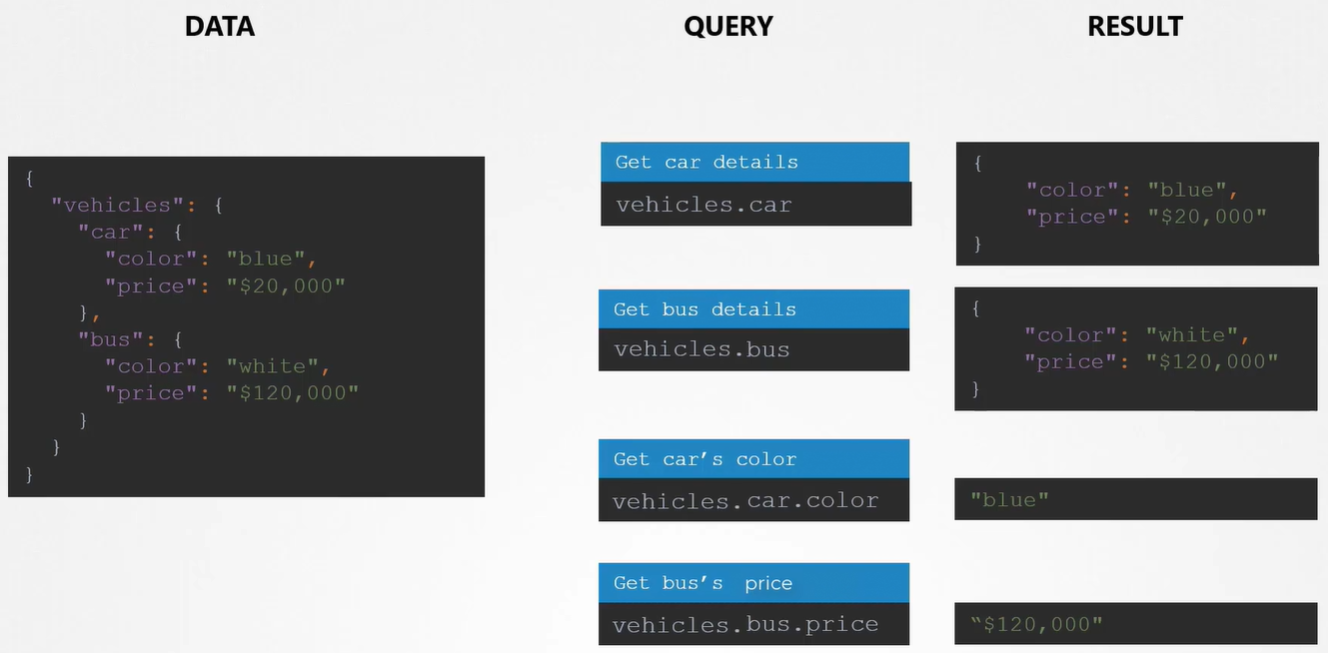
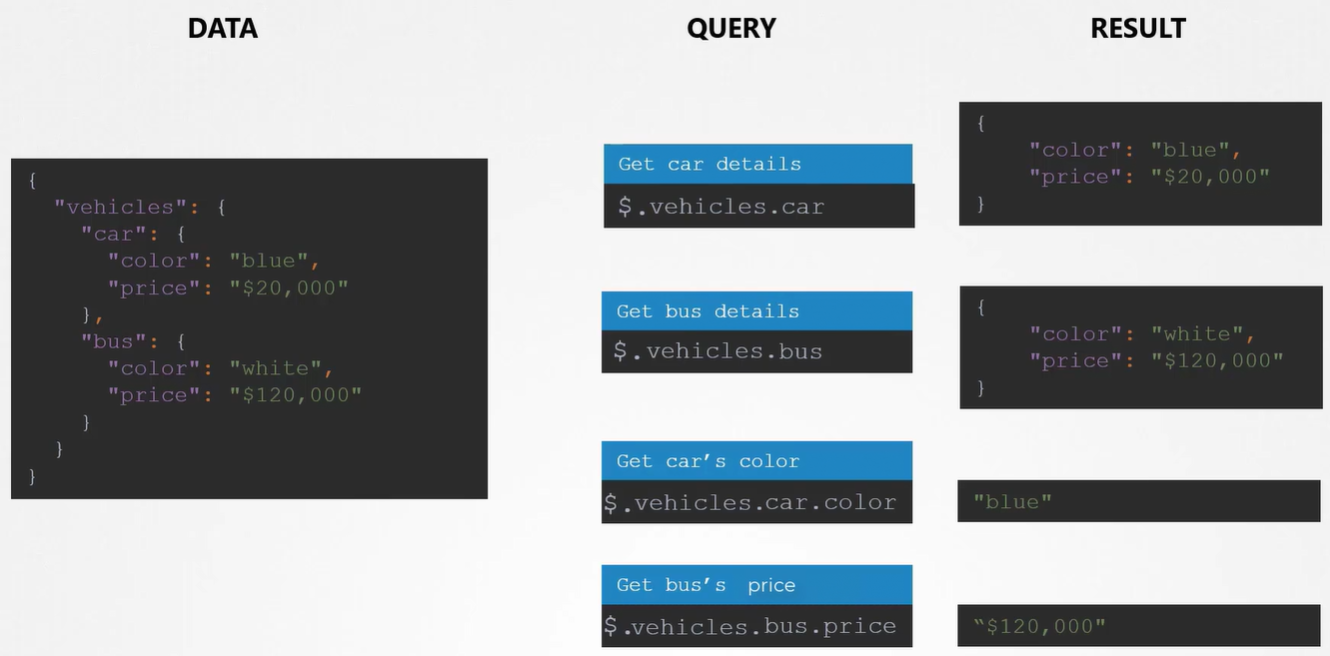
Updated JSON PATH lesson.

diff --git a/CKA/Introduction to JSON PATH/Introduction to JSON PATH.md b/CKA/Introduction to JSON PATH/Introduction to JSON PATH.md
@@ -2,7 +2,7 @@
 
 <img src="image.png" width="900" height="150"><br>
 
-Список в формате JSON и в формате YAML:
+Список (list) в формате JSON и в формате YAML:
 
 <img src="image-1.png" width="900" height="500"><br>
 
@@ -10,6 +10,16 @@
 
 JSON PATH - язык запросов, помогающий анализировать данные, представленные в формате JSON либо YAML. Можно провести аналогию с SQL.
 
-Примеры запросов:
+Что-либо заключенное в фигурные скобки является словарем (dictionary) в JSON.
+
+В данном примере `"car"` и `"bus"` являются двумя свойствами словаря или двумя словарями внутри словаря. Какого именно словаря? Верхнеуровневый словарь, который не имеет названия, известен как корневой элемент JSON-документа и обозначается как `$`.
+
+<img src="image-4.png" width="900" height="500"><br>
+
+Еще пример:
 
 <img src="image-2.png" width="900" height="500"><br>
+
+На самом деле результат любого JSON PATH запроса представляет собой массив `[]`:
+
+<img src="image-3.png" width="900" height="500"><br>
